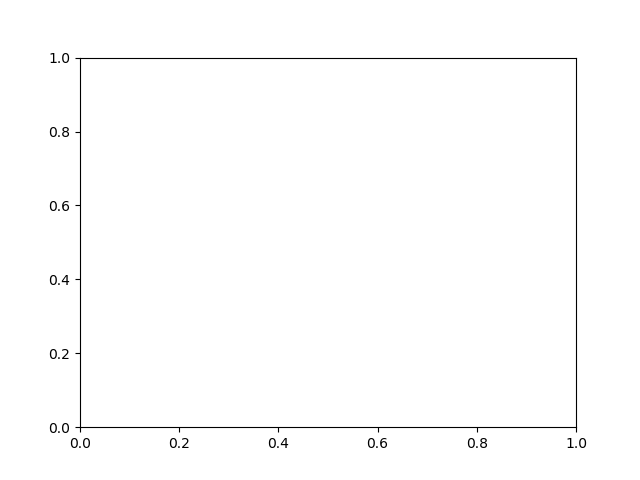
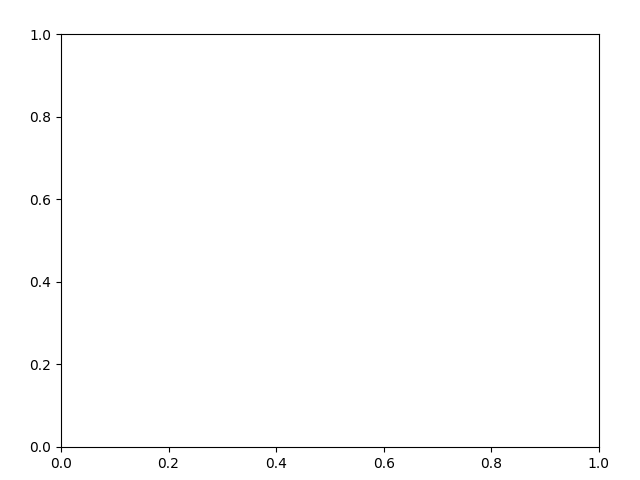
Content of 2.3 working

diff --git a/text/2.3.4-karcher-mean.tex b/text/2.3.4-karcher-mean.tex
@@ -4,18 +4,17 @@ $\bar x = \frac{1}{N}\sum_{i=1}^{N} x_i$ is used to estimate the central
 tendency of the data. This mean minimizes the sum of square distances.
 
 In the functional case, the mean function will have this property thus if
-${f_i}_{i=1}^{N} \subset \mathbb{L}^2$ is a set of functional observations,
-their mean $\bar \f(t) = \frac{1}{N}\sum_{i=1}^{N} f_i(t)$ will minimize
+$\{f_i\}_{i=1}^{N} \subset \mathbb{L}^2$ is a set of functional observations,
+their mean $\bar f(t) = \frac{1}{N}\sum_{i=1}^{N} f_i(t)$ will minimize
 $\sum_{i=1}^{N}\|f_i - \bar f\|_{\mathbb{L}^2}$.
 
 We are interested in extend this idea to general metrics spaces.
-Let $(X, d)$ be a metric space and $\{x_i\}{ i=1}^{N}$ random points in $X$.
-We will defined the Fréchet variance of a point $p \in X$ as
-$\Psi(p)=\sum_{i=1}^{N} d^{2}\left(p, x_{i}\right)$.
+Let $(X, d)$ be a metric space and $\{x_i\}_{i=1}^{N}$ random points in $X$.
+The Fréchet variance of a point $p \in X$ as $\Psi(p)=\sum_{i=1}^{N} d^{2}\left(p, x_{i}\right)$.
 
 The Fréchet mean of these random points will be defined as the element $m \in X$
 which globally minimizes the Fréchet Variance. If this global minimum does not
-$exist, we will call Karcher means to the points that locally minimizes
+exist, we will call Karcher means to the points that locally minimizes
 $\Psi(p)$, i. e.,
 
 $$
@@ -24,26 +23,21 @@ $$
 
 These Karcher means will be able to better capture the geometry of our problem
 than usual mean, as it is shown in the figure \ref{SBFIG:KARCHER2}, where it is
-used a Karcher mean on $\mathscr{A}$.
+used a Karcher mean on $\mathscr{A}$. To calculate this mean it is used the DPA algorithm explained in the appendix B.2.
 
 \begin{figure}[Karcher mean of bimodal dataset]{FIG:KARCHER}{Karcher mean of bimodal dataset}
-  \subfigure[SBFIG:KARCHER1]{Dataset of bimodal samples}{\image{7cm}{}{0-empty}} \quad
-  \subfigure[SBFIG:KARCHER2]{Usual mean and Karcher mean on $\mathscr{A}$}{\image{7cm}{}{0-empty}}
+  \subfigure[SBFIG:KARCHER1]{Dataset of unimoal samples}{\image{7cm}{}{0-empty}} \quad
+  \subfigure[SBFIG:KARCHER2]{Usual mean and Karcher mean on $\mathscr{A}$}{\image{7cm}{}{0-empty}} \\
+  \subfigure[SBFIG:RANK1]{Ranked by elastic distance}{\image{7cm}{}{0-empty}} \quad
+  \subfigure[SBFIG:RANK2]{Ranked by phase distance}{\image{7cm}{}{0-empty}}
 \end{figure}
-
-To calculate this mean we will use the DPA algorithm explained in the appendix B.2.
 
 As an example of the behavior of these means with different metrics, we may
 measure the centrality of an observation in a dataset using its distance to the
-Karcher mean. In the figure \ref{RANK} it is used this idea to rank a dataset of
+Karcher mean. In the figure \ref{KARCHER} it is used this idea to rank a dataset of
 unimodal samples. Reddish colors indicate higher centrality of a sample, i.e.,
 a smaller distance to the mean, and lighter colors indicates outlier samples.
 In the figure \ref{SBFIG:RANK1} it is used the amplitude distance, and their
 corresponding Karcher mean. We can observe that the location of the mode in a
 sample does not affect its centrality, in contrast to the phase distance,
-as it is shown in the figure \ref{SBFIG:RANK2}.s
-
-\begin{figure}[Dataset ranked by distance to the Karcher mean]{FIG:RANK}{Dataset ranked by distance to the Karcher mean}
-  \subfigure[SBFIG:RANK1]{Elastic distance}{\image{7cm}{}{0-empty}} \quad
-  \subfigure[SBFIG:RANK"]{Phase distance}{\image{7cm}{}{0-empty}}
-\end{figure}
+as it is shown in the figure \ref{SBFIG:RANK2}.

diff --git a/text/2.3.3-pairwise.tex b/text/2.3.3-pairwise.tex
@@ -1,32 +1,32 @@
 
 The Fisher-Rao metric will allow us to formulate a suitable criterion for the
-pairwise alignment problem, as presented in section \ref{SRC:L2PAIRWISE},
+pairwise alignment problem, as presented in section \ref{SEC:L2PAIRWISE},
  that avoids all the problems associated with the metric $\mathbb{L}^2$.
 
-Given $f_1, f_2 \in \mathscr{F}$, to register f_1 to f_2 the Fisher-Rao distance
+Given $f_1, f_2 \in \mathscr{F}$, to register $f_1$ to $f_2$ the Fisher-Rao distance
 will be minimized, as energy term, i.e., the warping used in the alignment will be
 
 $$
 \gamma^{*}= \operatorname{argmin}_{\gamma \in \Gamma} d_{FR}[f_1 \circ \gamma,
 f_2] = \operatorname{argmin}_{\gamma \in \Gamma} \|
-(q_1, \gamma) – q_2 \|_{\mathbb{L}^2}.
+(q_1, \gamma) - q_2 \|_{\mathbb{L}^2}.
 $$
 
-We will have a symmetry property, since
+We will have a property of symmetry, since
 $E[f_1, f_2] = E[f_1 \circ \gamma, f_2 \circ \gamma]$, the warping used to
 register $f_1 \circ \gamma$ to $f_2 \circ \gamma$ will be the same as in the
 previous case.
 
 Because of this property, our problem will have inverse consistency, since
-$E[f_1 \circ \gamma, f_2] = E[f_1 \circ \gamma \gamma \gamma^{-1}, f_2
-\circ \gamma^{-1}] = E[f_1, f_2 \circ \gamma^{-1}]$, that implies that the
-warping needed to register $f_2$ to $f_1$  is $\gamma^*^{-1}$, as it is shown in
-\ref{FIG:INVERSE}.
+$E[f_1 \circ \gamma, f_2] = \\ E[f_1 \circ \gamma \circ \gamma^{-1}, f_2
+\circ \gamma^{-1}] = E[f_1, f_2 \circ \gamma^{-1}]$, so that the
+warping needed to register $f_2$ to $f_1$  is ${\gamma^*}^{-1}$.
 
-\begin{figure}[Inverse consistency of pairwise alignment]{FIG:INVERSE}{Inverse consistency of pairwise alignment}
-  \subfigure[SBFIG:INVERSE1]{Alignment of $f_1$ to $f_2$}{\image{7cm}{}{0-empty}} \quad
-  \subfigure[SBFIG:INVERSE1]{Alignment of $f_2$ to $f_1s$}{\image{7cm}{}{0-empty}}
-\end{figure}
+%%, as it is shown in \ref{FIG:INVERSE}.
+%\begin{figure}[Inverse consistency of pairwise alignment]{FIG:INVERSE}{Inverse consistency of pairwise alignment}
+%  \subfigure[SBFIG:INVERSE1]{Alignment of $f_1$ to $f_2$}{\image{7cm}{}{0-empty}} \quad
+%  \subfigure[SBFIG:INVERSE1]{Alignment of $f_2$ to $f_1s$}{\image{7cm}{}{0-empty}}
+%\end{figure}
 
 In addition, the so-called pinching effect will not appear, due to the term
 $\sqrt{\dot \gamma}$ that is present in the criterion to minimize.

diff --git a/tfg-pablo-marcos.tex b/tfg-pablo-marcos.tex
@@ -1,5 +1,5 @@
 
-\documentclass[epsbased,copyleft,final,printable,covers,extendedindex,firstnumbered,tfg, english]{tfgtfmthesisuam}
+\documentclass[epsbased,copyleft,final,extendedindex,firstnumbered,tfg, english]{tfgtfmthesisuam}
 
 \usepackage{amsmath}
 \usepackage{amsfonts}
@@ -11,7 +11,7 @@
 \author{Pablo Marcos Manchón}
 \advisor{Alberto Suárez González}
 \levelin{Mathematics and Computer Science}
-\title[Functional data analysis: interpolation, registration and nearest neighbors in scikit-fda]{Functional data analysis in scikit-fda}
+\title{Functional data analysis: interpolation, registration and nearest neighbors in scikit-fda}
 \subtitle{}
 
 
@@ -66,9 +66,10 @@ interpolación, registro, vecinos próximos, python}
     \section{Elastic methods in functional data analysis\label{SEC:ELASTIC}}{text/2.3-elastic-analysis}
       \subsection{Fisher-Rao metric\label{SEC:FISHERRAO}}{text/2.3.1-fisher-rao}
       \subsection{Amplitude and phase spaces\label{SEC:AMPPHA}}{text/2.3.2-amp-pha-spaces}
-      %\subsection{Pairwise alignment\label{SEC:PAIRWISE}}{text/2.3.3-pairwise}
-      %\subsection{Karcher means\label{SEC:KARCHER}}{text/2.3.4-karcher-mean}
-      %\subsection{Elastic registration\label{SEC:ELASTICREG}}{text/2.3.5-elastic-registration}
+      \subsection{Pairwise alignment\label{SEC:PAIRWISE}}{text/2.3.3-pairwise}
+      \subsection{Karcher means\label{SEC:KARCHER}}{text/2.3.4-karcher-mean}
+      \subsection{Elastic registration\label{SEC:ELASTICREG}}{text/2.3.5-elastic-registration}
+      \subsection{Restricting elasticity\label{SEC:RESTRICT}}{text/2.3.6-elasticity}
 
 
 

diff --git a/text/2.3.5-elastic-registration.tex b/text/2.3.5-elastic-registration.tex
@@ -25,7 +25,7 @@ $\gamma_{i}=\operatorname{arginf}_{\gamma \in \Gamma}\left\|\tilde{q}-
 \left(q_{i}, \gamma\right)\right\|$.
 
 \begin{figure}[Scheme of the elastic registration procedure]{FIG:SCHEME}{Scheme of the elastic registration procedure.}
-  \begin{tikzcd}
+  \begin{tikzcd}[scale=2]
     {\mathscr{F}}  \arrow[bend left=60]{r}{q_i} &
     {\mathbb{L}^2} \arrow[bend left=60]{r}{[q_i]} \arrow[bend left=60]{l}{\tilde \mu_f } &
     {\mathscr{A} } \arrow[bend left=60]{l}{\tilde \mu_q}
@@ -38,14 +38,13 @@ appendix B.3. The center of the orbit will be
 $\tilde \mu_q = (\mu_q , {\bar \gamma}^{-1})$.
 
 The mean of the relative phases with respect to $\tilde \mu_q$, will be the
-identity, thus
-
-$$
-\bar {\{  \gamma_i \circ {\bar \gamma}^{-1}  \}} =
-operatorname{arginf}_{\gamma \in \Gamma}d_{FR}(\gamma_i \circ {\bar \gamma}^{-1}, gamma) =
-operatorname{arginf}_{\gamma \in \Gamma}d_{FR}(\gamma_i \circ {\bar \gamma}^{-1} \circ \bar \gamma, gamma \circ \bar \gamma) =
-operatorname{arginf}_{\gamma \in \Gamma}d_{FR}(\gamma_i, gamma \circ \bar \gamma) = \gamma_{id}.
-$$
+identity, thus \\
+$
+%\bar {\{  \gamma_i \circ {\bar \gamma}^{-1}  \}} =
+\operatorname{arginf}_{\gamma \in \Gamma}d_{FR}(\gamma_i \circ {\bar \gamma}^{-1}, \gamma) =
+\operatorname{arginf}_{\gamma \in \Gamma}d_{FR}(\gamma_i \circ {\bar \gamma}^{-1} \circ \bar \gamma, \gamma \circ \bar \gamma) =
+\operatorname{arginf}_{\gamma \in \Gamma}d_{FR}(\gamma_i, \gamma \circ \bar \gamma) = \gamma_{id}.
+$
 
 Finally, we will construct the template to which the samples will be aligned,
 called elastic mean,

diff --git a/text/2.3.6-elasticity.tex b/text/2.3.6-elasticity.tex
@@ -2,19 +2,18 @@
 Sometimes it is necessary to control the amount of elasticity during the
 registration process, for this purpose it is possible to add a penalty term
 $\mathcal{R}(\lambda)$ to the elastic distance.
-
-Given $\lambda > 0$ and two SRSFs $q_1, q_2 \in \mathbb{L}^2$, we will define
-the distance penalized elastic distance as
+Let $q_1, q_2 \in \mathbb{L}^2$ be two SRSFs and $\lambda > 0$, we will define
+the penalized elastic distance as
 
 $$
 d_{\lambda}\left(q_{1}, q_{2}\right) \equiv \inf _{\gamma \in \Gamma}\left(
-\| q_{1}-\left(q_{2} \circ \gamma\right) \sqrt{\dot{\gamma}}\right)\left\|^{2}+
-\lambda\right\| \sqrt{\dot{\gamma}}-1 \|^{2} )^{(1 / 2)}.
+\| q_{1}-\left(q_{2} \circ \gamma \sqrt{\dot{\gamma}}\right)\left\|^{2}+
+\lambda\right\| \sqrt{\dot{\gamma}}-1 \|^{2} \right)^{(1 / 2)}.
 $$
 
-As an example, it is shown the result of the alignment of two functions with different penalties in the figure
-\ref{FIG:PENALTY}.
+The alignment of two functions with different penalties is shown in the figure \ref{FIG:PENALTY}.
 
 \begin{figure}[Penalized elastic registration]{FIG:PENALTY}{Penalized elastic registration}
   \image{7cm}{}{0-empty}
 \end{figure}
+

diff --git a/scripts/0-empty.py b/scripts/0-empty.py
@@ -2,7 +2,8 @@
 
 import matplotlib.pyplot as plt
 
-plt.figure("0-empty")
+plt.tight_layout(pad=.1)
+#plt.figure("0-empty")
 plt.xlim(0, 1)
 plt.ylim(0, 1)
 
